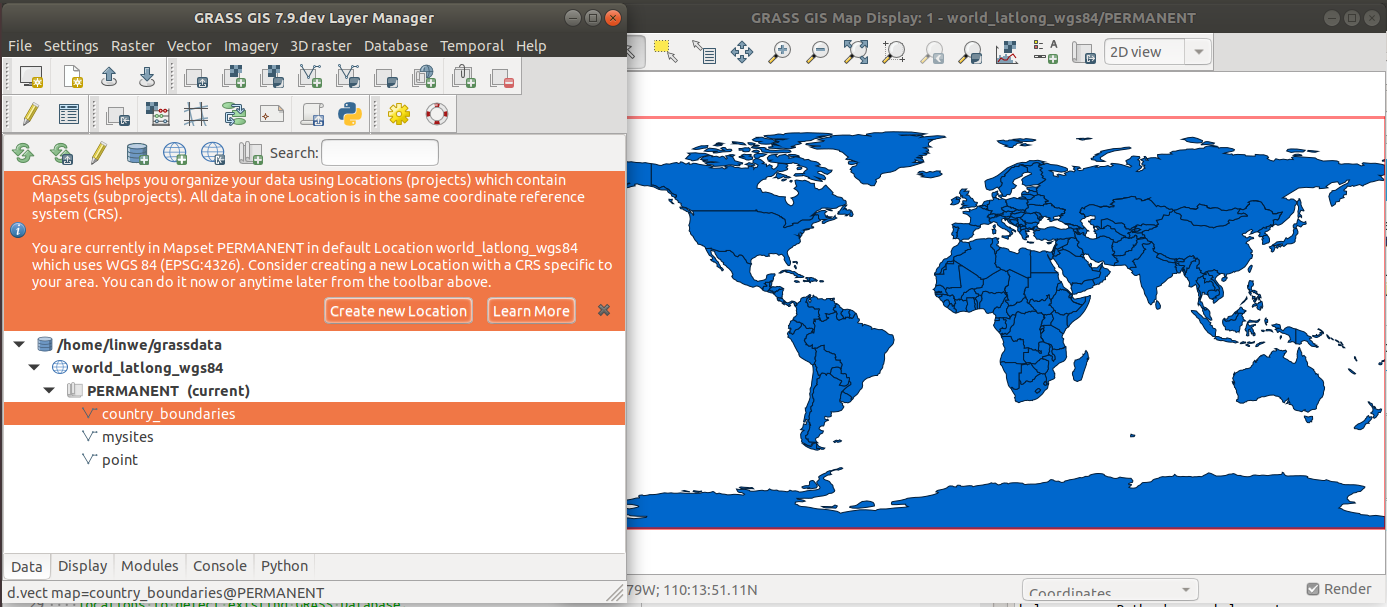
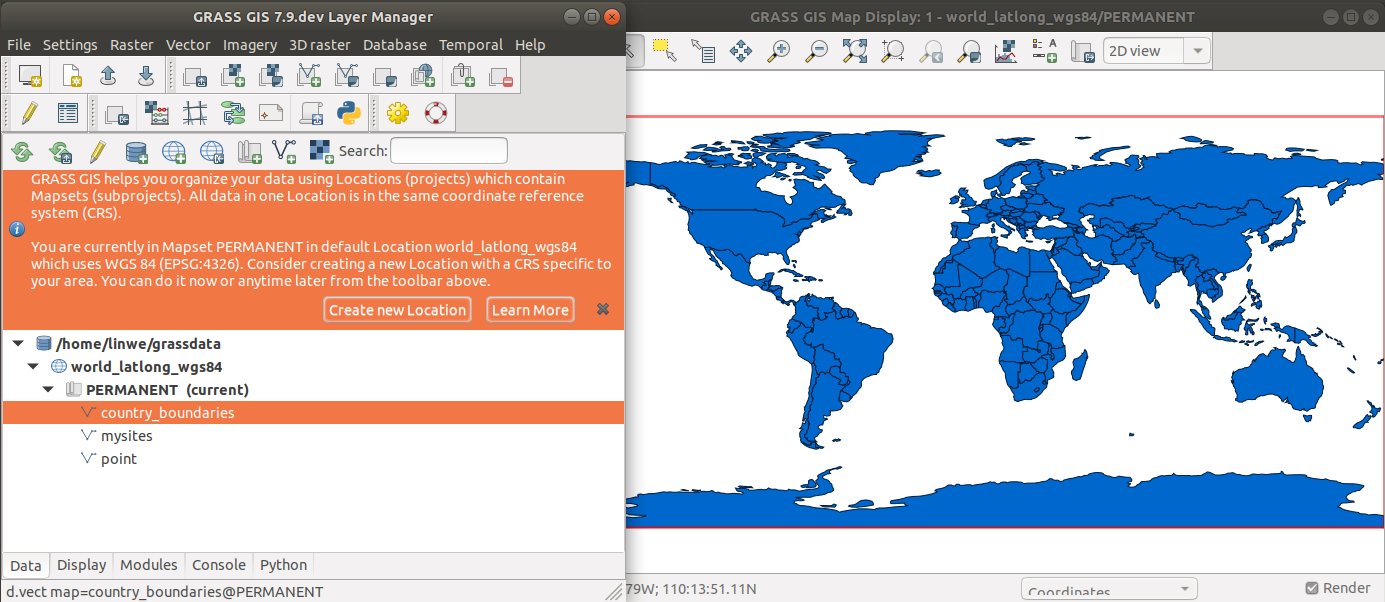
Implementation and Results

diff --git a/text/linda-kladivova-dp-2021.tex b/text/linda-kladivova-dp-2021.tex
@@ -2226,7 +2226,6 @@ should no longer be included, but it should be well-referred to.
 \vspace*{-1cm}
 \fancyhead[RE, RO]{\fancyplain{}{\small \sl{GRASS GIS Development Proposals}}}
 \section{GRASS GIS Development Proposals}
-\label{sec:proposal}
 
 \noindent As described in the subchapter \ref{sec:objectives}, this
 work consists of 2 seemingly independent parts. The first part (the
@@ -2436,54 +2435,11 @@ be informative, but questional.
 \section{Analysis of the results of the second survey}
 \label{sec:qstat2}
 
-\noindent The second questionnaire called \textbf{Help improve the
-  special mode for first-time users} was released on November 26 and
-stopped on November 30, 2020. It introduces a new Info Bar solution to
-new and existing users and tests its success. At the same time, it
-addresses users to share their ideas on how to modify and adapt the
-solution so that the resulting solution that emerges from this work,
-largely based on this survey, enriches the first-time user experience
-with GRASS as much as possible.
+\noindent The second questionnaire called \textbf{Help improve the special mode for first-time users} was released on November 26 and stopped on November 30, 2020. It introduces a new Info Bar solution to new and existing users and tests its success. At the same time, it addresses users to share their ideas on how to modify and adapt the solution so that the resulting solution that emerges from this work, largely based on this survey, enriches the first-time user experience with GRASS as much as possible.
 
-The questionnaire is based on a simple task. A user has vector data of
-rivers in the Czech Republic in the shapefile format in the coordinate
-system S-JTSK/Krovak East North (EPSG:5514) and they would like to
-import this data into GRASS and perform a simple task - extract a
-river called Otava and save it in a separate layer. Unfortunately, due
-to external epidemiological circumstances, this task could not be
-tested among GRASS beginners directly on the software. Thus, a survey
-was designed that simulates three key situations that, according to
-the diagrams in the previous chapter, a new user is likely to get into
-and which, according to the results of the second part of the first
-survey, are crucial. In these situations, the respondent is presented
-with software mockups of Info Bars which (if they are placed in the
-right place at the right time and correctly designed in terms of text)
-should lead to the right decision on how to continue in work. In the
-following text, the term \textit{default location} is preferred to the
-term \textit{demolocation}, which is more of a technical (developer)
-nature. Semantically, these concepts do not differ.
+The questionnaire is based on a simple task. A user has vector data of rivers in the Czech Republic in the shapefile format in the coordinate system S-po/Krovak East North (EPSG:5514) and they would like to import this data into GRASS and perform a simple task - extract a river called Otava and save it in a separate layer. Unfortunately, due to external epidemiological circumstances, this task could not be tested among GRASS beginners directly on the software. Thus, a survey was designed that simulates three key situations that, according to the diagrams in the previous chapter, a new user is likely to get into and which, according to the results of the second part of the first survey, are crucial. In these situations, the respondent is presented with software mockups of Info Bars which (if they are placed in the right place at the right time and correctly designed in terms of text) should lead to the right decision on how to continue in work. In the following text, the term \textit{default location} is preferred to the term \textit{demolocation}, which is more of a technical (developer) nature. Semantically, these concepts do not differ.
 
-\textbf{The first situation} shown in the mockup in Figure
-\ref{fig:grass_infobar_1} shows the GRASS GIS immediately after
-startup. At this point, a user needs to find their way around in a
-completely unknown environment as quickly as possible and import their
-data so that he can look at it and possibly perform analyzes. The
-software starts in the Data tab to the default location, which in the
-Map Display window displays the world map in the WGS 84 system
-(EPSG:4326). The task of the default location is to give the user a
-certain sense of security by showing a map and at the same time an
-example of data organization in the Data Catalog, which is now the
-center of GRASS. At the first moment, it is therefore essential for
-the user to at least passively understand the principle of the GRASS
-data hierarchy, which is well visible in the Data Catalog and is also
-briefly explained in the first Info Bar. Terms are also specified in
-the text using new planned names in parentheses. In order to properly
-figure out the first situation, a user must realize that the data he
-wants to import into the software has a different coordinate system
-(EPSG:5514) than the one defined for the default location
-(EPSG:4326). This means that if a user understands the meaning of the
-location, he will create a new location that will have the coordinate
-system of the data he wants to import.
+\textbf{The first situation} shown in the mockup in Figure \ref{fig:grass_infobar_1} shows the GRASS GIS immediately after startup. At this point, a user needs to find their way around in a completely unknown environment as quickly as possible and import their data so that he can look at it and possibly perform analyzes. The software starts in the Data tab to the default location, which in the Map Display window displays the world map in the WGS 84 system (EPSG:4326). The task of the default location is to give the user a certain sense of security by showing a map and at the same time an example of data organization in the Data Catalog, which is now the center of GRASS. At the first moment, it is therefore essential for the user to at least passively understand the principle of the GRASS data hierarchy, which is well visible in the Data Catalog and is also briefly explained in the first Info Bar. Terms are also specified in the text using new planned names in parentheses. In order to properly figure out the first situation, a user must realize that the data he wants to import into the software has a different coordinate system (EPSG:5514) than the one defined for the default location (EPSG:4326). This means that if a user understands the meaning of the location, he will create a new location that will have the coordinate system of the data he wants to import. The user can also click on a button ``Learn More'' linking the website \cite{hierarchy} which contains a detailed explanation of the data hierarchy.
 
 \vspace{0.3cm}
 \begin{figure}[hbt!] 
@@ -2494,16 +2450,7 @@ system of the data he wants to import.
 \end{center}
 \end{figure}
 
-\newpage
-\noindent Once a user creates a new location, he finds themselves in
-\textbf{the second situation} captured in Figure
-\ref{fig:grass_infobar_2} which displays the second Info Bar leading
-to data import. This Info Bar also explains the concept of PERMANENT
-mapset and shows a variant of creating own mapset, which is not
-necessary but useful. It means that we are still partially dealing
-with the topic of data hierarchy in GRASS, but at the same time, we
-advise the user on how to import their data. After successful import,
-a map is displayed automatically in the Map Display.
+\noindent Once a user creates a new location, he finds themselves in \textbf{the second situation} captured in Figure \ref{fig:grass_infobar_2} which displays the second Info Bar leading to data import. This Info Bar also explains the concept of PERMANENT mapset and shows a variant of creating own mapset, which is not necessary but useful. It means that we are still partially dealing with the topic of data hierarchy in GRASS, but at the same time, we advise the user on how to import their data. After successful import, a map is displayed automatically in the Map Display.
 
 \vspace{0.3cm}
 \begin{figure}[hbt!] 
@@ -2942,7 +2889,6 @@ resulted in several changes:
 \end{center}
 \end{figure}
 
-
 %% -------<<< Chapter 8: Implementation>>>-------\\%%%%%%%%%%%%%%%%%%%%%%%%%%%%%%%%%%%%
 \newpage
 \vspace*{-1cm}
@@ -2951,54 +2897,15 @@ resulted in several changes:
 \noindent
 \large
 
-\noindent This chapter presents the implementation of first-time mode
-from the technical point of view. As mentioned in subsection
-\ref{subsection:grassgis} the most changes in GRASS GIS takes place in
-Python which also applies to GUI which uses the wxPython
-extension. wxPython is a cross-platform toolkit which means that the
-same program can be run on multiple platforms without
-modification. Currently, supported platforms are Windows, macOS,
-Linux, or other Unix-like systems. The resulting design on each
-platform can be a bit different as we can also notice when using GRASS
-GIS on different systems. We can import wx to a script file as a
-package that wraps the GUI components of the popular wxWidgets
-cross-platform C++ library established in 1992 at the Artificial
-Intelligence Applications Institute at the University of
-Edinburgh. There are several other GUI packages for Python, for
-example, the Tkinter package is also very popular.
+\noindent This chapter presents the implementation of first-time mode from the technical point of view. As mentioned in subsection \ref{subsection:grassgis} the most changes in GRASS GIS takes place in Python which also applies to GUI which uses the wxPython extension. wxPython is a cross-platform toolkit which means that the same program can be run on multiple platforms without modification. Currently, supported platforms are Windows, macOS, Linux, or other Unix-like systems. The resulting design on each platform can be a bit different as we can also notice when using GRASS GIS on different systems. We can import wx to a script file as a package that wraps the GUI components of the popular wxWidgets cross-platform C++ library. There are several other GUI packages for Python, for example, the Tkinter package is also very popular.
 
-GRASS GIS has been developing since January 2020 on GitHub, a web
-service that supports development using the Git versioning tool. This
-principle makes working on code much clearer. It stores the history of
-work, ensures stylistic consistency using the flake8 command-line
-utility, and also allows the creation of Issues, which can have the
-character of errors and various improvements. Then these issues are
-usually proposed for changes (so-called Pull Requests), which users
-discuss. We can say that GitHub partly works as a social network,
-which can support the creativity and enthusiasm of developers. In the
-following text presenting the changes that have taken place in terms
-of the developer's point of view, the term \textit{demolocation} is
-preferred to the term \textit{default location}.
+GRASS GIS has been developing since January 2020 on GitHub, a web service that supports development using the Git versioning tool. This principle makes working on code much clearer. It stores the history of work, ensures stylistic consistency using the flake8 command-line utility, and also allows the creation of Issues, which can have the character of errors and various improvements. Then these issues are usually proposed for changes (so-called Pull Requests), which users discuss. Therefore, GitHub partly works as a social network, which can support the creativity and enthusiasm of developers. In the following text presenting the changes from the developer's point of view, the term \textit{demolocation} is preferred to the term \textit{default location}.
 
-\bigskip
-\noindent \Large \textbf{Displaying a world map and deleting a user mapset}
+\subsection{Displaying a world map and deleting a user mapset}
 
-\noindent \large Displaying a world map as a part of the default
-location is solved in the script \textit{gui/wxpython/lmgr/frame.py}
-directly in the constructor of the GMFrame class, which represents the
-Layer Manager (see chapter \ref{sec:beforeGSoC}). The map is displayed
-whenever the user is in the default location, this is checked via the
-location name \textit{world\_latlong\_wgs84}.
+\noindent \large Displaying a world map as a part of the default location is solved in the script \textit{gui/wxpython/lmgr/frame.py} directly in the constructor of the GMFrame class, which represents the Layer Manager (see chapter \ref{sec:beforeGSoC}). The map is displayed whenever the user is in the default location, this is checked via the location name \textit{world\_latlong\_wgs84}.
 
-The default location (demolocation) is automatically part of the GRASS
-GIS distribution. After the first run, this location is copied
-on-the-fly to an automatically created database called
-``grassdata'. In this demolocation, a mapset named after the user is
-created. This described solution was implemented within GSoC. However,
-based on Survey 2, it was decided that the user mapset is
-confusing. Therefore, the demolocation now starts in the PERMANENT
-mapset, which becomes the current mapset at startup. The change mainly
-affects the file \textit{gui/wxpython/startup/utils.py}.
+The demolocation is automatically part of the GRASS GIS distribution. After the first run, it was copied on-the-fly to an automatically created database called ``grassdata'' and a mapset named after the user was created. However, based on Survey 2, the author found out that the user mapset is confusing. Therefore, the demolocation now starts in the PERMANENT mapset, which becomes the current mapset at startup. The change mainly affects the file \textit{gui/wxpython/startup/utils.py}.
 
 \par\noindent\rule{\textwidth}{0.4pt}
 \textbf{Pull Requests:}
@@ -3006,54 +2913,22 @@ affects the file \textit{gui/wxpython/startup/utils.py}.
 Displaying a world map: \url{https://github.com/OSGeo/grass/pull/1070}
 
 Deleting a user mapset: \url{https://github.com/OSGeo/grass/pull/1173}
+
 \par\noindent\rule{\textwidth}{0.4pt}
 
-\bigskip
-\noindent \Large \textbf{Special mode for first-time users}
+\subsection{Special mode for first-time users}
 
-\noindent \large The basis of the new special mode for first-time
-users is the \texttt{InfoBar} class for which a new file in the path
-\textit{gui/wxpython/gui\_core/infobar.py} has been created. The file
-was intentionally created in the \textit{gui\_core} directory, as the
-\texttt{InfoBar} class is a general template and is therefore usable
-for other future InfoBar instances located elsewhere than in the Data
-Catalog. This class inherits from the implementation in the Advanced
-Generic Widgets (AGW). This package provides many custom wxPython
-controls that are simply an addition to the wxPython widgets set. In
-terms of Layout and displaying and hiding messages (and buttons), the
-Info Bar has been significantly adapted to GRASS GIS.
+\noindent \large The basis of the new special mode for first-time users is the \texttt{InfoBar} class for which a new file in the path \textit{gui/wxpython/gui\_core/infobar.py} has been created. The file was intentionally created in the \textit{gui\_core} directory, as the \texttt{InfoBar} class is a general template and is therefore usable for other future InfoBar instances located elsewhere than in the Data Catalog. This class inherits from the implementation in the Advanced Generic Widgets (AGW). This package provides many custom wxPython controls that are simply an addition to the wxPython widgets set. In terms of Layout and displaying and hiding messages (and buttons), the Info Bar has been significantly adapted to GRASS GIS.
 
-Next, the \texttt{DataCatalogInfoManager} class was created in the new
-script in the path
-\textit{gui/wxpython/datacatalog/infomanager.py}. This class contains
-methods that define the individual info messages that will be
-displayed. It takes care of both the text and the buttons as well as
-functions that are called when the buttons are pressed.
+Next, the \texttt{DataCatalogInfoManager} class was created in the new script in the path \textit{gui/wxpython/datacatalog/infomanager.py}. This class contains methods that define the individual info messages that will be displayed. It takes care of both the text and the buttons as well as functions that are called when the buttons are pressed.
 
-Both \texttt{InfoBar} and \texttt{DataCatalogInfoManager} instances
-are created in the \texttt{DataCatalog} class in the
-\textit{gui/wxpython/datacatalog/catalog.py} file. This class is a
-template for an object that is the content of the Data tab. The
-\texttt{DataCatalog} class contains first the \texttt{DataCatalogTree}
-object, which is often inaccurately called the Data Catalog, secondly
-the toolbar object \texttt{DataCatalogToolbar} in which the Management
-icons are located, and thirdly the newly implemented \texttt{InfoBar}
-object. In Figure \ref{fig:uml_chart} we can see a UML diagram that
-shows the classes described above and the relationships between them.
+Both \texttt{InfoBar} and \texttt{DataCatalogInfoManager} instances are created in the \texttt{DataCatalog} class in the \textit{gui/wxpython/datacatalog/catalog.py} file. This class is a template for an object that is the content of the Data tab. The \texttt{DataCatalog} class contains first the \texttt{DataCatalogTree} object, which is often inaccurately called the Data Catalog, secondly the toolbar object \texttt{DataCatalogToolbar} in which the Management icons are located, and thirdly the newly implemented \texttt{InfoBar} object. In Figure \ref{fig:uml_chart} we can see a UML diagram that shows the classes described above and the relationships between them.
 
-If the user is in the demolocation after startup, the world map is
-displayed and at the same time the Info Bar is visible, which displays
-advice and buttons for the first situation. The setting of the Info
-Bar for the second and third situation is no longer so
-straightforward. It is necessary to use Signals from the pydispatch
-library.
+If the user is in the demolocation after startup, the world map is displayed and at the same time the Info Bar is visible, which displays advice and buttons for the first situation. The setting of the Info Bar for the second and third situation is no longer so straightforward. It is necessary to use Signals from the pydispatch library.
 
-In the second situation, a Signal is created in the
-\texttt{DataCatalogTree} class and emitted if the user is in a
-demolocation and a new location is successfully created. At the same
-time, when generally creating a new location, there is always a switch
-to the PERMANENT mapset of the newly created location, which thus
-becomes the current mapset.
+In the second situation, a Signal is created in the \texttt{DataCatalogTree} class and emitted if the user is in a demolocation and a new location is successfully created. At the same time, when generally creating a new location, there is always a switch to the PERMANENT mapset of the newly created location, which thus becomes the current mapset. The \texttt{showImportDataInfo} method is connected to the signal in the parent \texttt{DataCatalog} object, which calls \texttt{InfoManager} with the settings which is set in case of successful creation of a new location. The Info Bar is displayed in the second situation after creating a new location using the Management icon as well as after creating a location using the button in the Info Bar set for the first situation.
+
+Showing the Info Bar in the third situation is also handled via Signal from the pydispatch library. Signal is created in the \texttt{ImportDialog} class in the \textit{gui/wxpython/modules/import\_export} file, which is the parrent for both the \texttt{GdalImportDialog} class for importing raster data as well as the \texttt{OgrImportDialog} class for importing vector data. 
 
 \vspace{0.3cm}
 \begin{figure}[hbt!] 
@@ -3064,39 +2939,12 @@ becomes the current mapset.
 \end{center}
 \end{figure}
 
+\noindent If the import is successful, this Signal is emited. In the \texttt{DataCatalog} class, the \texttt{showImportSuccessfulInfo} method calling the \texttt{InfoManager} with the particular settings, is connected to this Signal. The Info Bar is displayed in the third situation after data import using the appropriate Management icons as well as after data import using the buttons in the Info Bar set for the second situation.
+
+The Info Bar does not appear if the user creates a location or imports data from the File tab. In this case, it is assumed that it is not a first-time user. The Info Bar is therefore only a part of the Data Catalog, its functionality is not connected with the \texttt{GMFrame} class, which represents the Layer Manager.
+
 \newpage
-
-\noindent The \texttt{showImportDataInfo} method is connected to the
-signal in the parent \texttt{DataCatalog} object, which calls
-\texttt{InfoManager} with the settings which is set in case of
-successful creation of a new location. The Info Bar is displayed in
-the second situation after creating a new location using the
-appropriate Management icon as well as after creating a location using
-the button in the Info Bar set for the first situation.
-
-Showing the Info Bar in the third situation is also handled via Signal
-from the pydispatch library. Signal is created in the
-\texttt{ImportDialog} class in the
-\textit{gui/wxpython/modules/import\_export} file, which is the
-parrent for both the \texttt{GdalImportDialog} class for importing
-raster data as well as the \texttt{OgrImportDialog} class for
-importing vector data. If the import is successful, this Signal is
-emited. In the \texttt{DataCatalog} class, the
-\texttt{showImportSuccessfulInfo} method calling the
-\texttt{InfoManager} with the particular settings, is connected to
-this Signal. The Info Bar is displayed in the third situation after
-data import using the appropriate Management icons as well as after
-data import using the buttons in the Info Bar set for the second
-situation.
-
-The Info Bar does not appear if the user creates a location or imports
-data from the File tab. In this case, it is assumed that it is not a
-first-time user. The Info Bar is therefore only a part of the Data
-Catalog, its functionality is not connected with the \texttt{GMFrame}
-class, which represents the Layer Manager.
-
-\par\noindent\rule{\textwidth}{0.4pt}
-\textbf{Pull Requests:}
+\noindent \textbf{Pull Requests:}
 
 Info Bar in first situation: \url{https://github.com/OSGeo/grass/pull/1078}
 
@@ -3105,25 +2953,24 @@ Info Bar in second situation: \url{https://github.com/OSGeo/grass/pull/1183}
 Info Bar in third situation: \url{https://github.com/OSGeo/grass/pull/1204}
 \par\noindent\rule{\textwidth}{0.4pt}
 
-\bigskip
-\noindent \Large\textbf{Managament icons for vector and raster data import}
+\subsection{Managament icons for vector and raster data import}
 
-\noindent \large Due to the Info Bar in the second situation, two
-Management icons for data import are added. They are implemented in
-the file \textit{gui/wxpython/datacatalog/toolbar.py} in the
-\texttt{DataCatalogToolbar} class and use images used for the same
-purpose in QGIS. Depending on the type of import (vector/ raster), the
-function called \textit{Simplified vector import with reprojection
-  (v.import)} or \textit{Simplified raster import with reprojection
-  (v.raster)} is called. These are the same functions that are linked
-to the buttons `` Import vector data '' and `` Import raster data ''
-in the Info Bar set for the second situation.
+\noindent \large Due to the Info Bar in the second situation, two Management icons for data import are added. They are implemented in the file \textit{gui/wxpython/datacatalog/toolbar.py} in the \texttt{DataCatalogToolbar} class and use images used for the same purpose in QGIS. Depending on the type of import (vector/ raster), the function called \textit{Simplified vector import with reprojection (v.import)} or \textit{Simplified raster import with reprojection (v.raster)} is called. These are the same functions that are linked to the buttons ``Import vector data'' and ``Import raster data'' in the Info Bar set for the second situation.
 
 \par\noindent\rule{\textwidth}{0.4pt}
 \textbf{Pull Request:}
 
 \url{https://github.com/OSGeo/grass/pull/1205}
 \par\noindent\rule{\textwidth}{0.4pt}
+
+\vspace{0.3cm}
+\begin{figure}[hbt!] 
+\begin{center}
+\includegraphics[width=15cm]{../pictures/icons.png} 
+\caption[Management icons for vector and raster data import]{Management icons for vector and raster data import (Source: Personal collection)}
+\label{fig:icons}
+\end{center}
+\end{figure}
 
 %% -------<<< Chapter 9: Results >>>-------\\%%%%%%%%%%%%%%%%%%%%%%%%%%%%%%%%%%%%
 \newpage
@@ -3133,41 +2980,58 @@ in the Info Bar set for the second situation.
 \noindent
 \large
 
-The Info Bar is created in Data Catalog each time the user starts
-GRASS GIS and it is only up to the situation what message is
-displayed. During the work, the user can then close the Info Bar but
-in reality it is only hidden and in another defined situation it may
-get visible again.  Displaying the world map as part of the
-demolocation immediately after GRASS GIS first startup is a
-functionality mentioned in responses in Survey 1 Part 2 Question 3,
-and developers have long considered this concept.
+\noindent In addition to the created proposal on how to improve the current GRASS GIS startup mechanism (see subsection \ref{sec:proposal2}), the goal of this work is to propose and implement a special mode for first-time users. Based on the second part of the first survey and the section \ref{sec:usability_testing}, this mode was compiled. It consists of Info Bar which is created in Data Catalog each time the user starts GRASS GIS and it is only up to the situation what message is displayed. During the work, the user can then close the Info Bar but in reality it is only hidden and in another defined situation it may get visible again. The Info Bar is finally displayed in three defined situations, which were already proposed in Survey 2 - for the first time after the first GRASS GIS startup, the second time when the first-time user creates a new location successfully, and the third time when the first-time user imports data successfully. The situation in which every GRASS user finds themselves when start GRASS GIS after the installation can be seen in Figures \ref{fig:lmgr1}, \ref{fig:mapdisplay1}.
 
 \vspace{0.3cm}
 \begin{figure}[hbt!] 
 \begin{center}
-\includegraphics[width=17cm]{../pictures/po_prvnich_trech_PRs.png} 
-\caption[UML diagram of InfoBar implementation]{UML diagram of InfoBar implementation (Source: Personal collection)}
-\label{fig:po_prvnich_trech_PRs}
+\includegraphics[width=13cm]{../pictures/lmgr1.png} 
+\caption[Layer Manager in Situation 1 (immediatelly after first startup)]{Layer Manager in Situation 1 (immediatelly after first startup) (Source: Personal collection)}
+\label{fig:lmgr1}
 \end{center}
 \end{figure}
 
 \vspace{0.3cm}
 \begin{figure}[hbt!] 
 \begin{center}
-\includegraphics[width=17cm]{../pictures/druha_infobar_a_nove_management_ikonky.png} 
-\caption[UML diagram of InfoBar implementation]{UML diagram of InfoBar implementation (Source: Personal collection)}
-\label{fig:druha_infobar_a_nove_management_ikonky}
+\includegraphics[width=15cm]{../pictures/mapdisplay1.png} 
+\caption[Map Display in Situation 1 (immediatelly after first startup)]{Map Display in Situation 1 (immediatelly after first startup) (Source: Personal collection)}
+\label{fig:mapdisplay1}
 \end{center}
 \end{figure}
+
+\noindent There are several important changes compared to the proposal in Survey 2. Firstly, the Info Bar is newly placed above the Data Catalog, which will help it not to be ignored. Secondly, the appearance of the Info Bar was slightly modified, which we can notice on the buttons that have different design. Thirdly, the color of the world map, which is displayed automatically as part of the demolocation, was changed to dark blue from the original gray. Lastly, the Info Bar text set for the first situation was slightly specified - the word `` default '' was added before the location name, as in Survey 2, there are responses indicating that users do not undestand where they are located. 
+
+The text in the Info Bar set for the second situation (see Figure \ref{fig:lmgr2}) was also slightly changed. In order to further improve the Info Bar function, but also the Data tab in general, two Management icons were created for the import of raster and vector data. We can see them in Figure \ref{fig:icons} highlighted in red. The main reason is that Management icons were very successful in Survey 1 Part 1 Question 3 and at the same time, the advice in the proposal in Survey 2 regarging File Manager is confusing. There are several functions for data import in File Manager. It makes much more sense to continue with the same concept that was introduced at the content of the Info Bar in the first situation, when the creation of a new location is also possible via the Management icon in addition to the button in the Info Bar.
+
+\begin{figure}[hbt!] 
+\begin{center}
+\includegraphics[width=13cm]{../pictures/lmgr2.png} 
+\caption[Layer Manager in Situation 2  (after successfully created location)]{Layer Manager in Situation 2 (after successfully created location) (Source: Personal collection)}
+\label{fig:lmgr2}
+\end{center}
+\end{figure}
+
+\noindent The text in the Info Bar in the third situation was changed according to the proposal of the respondent \#21 in Survey 2 Question 6. The situation in the Data tab after successful data import can be seen in Figures \ref{fig:lmgr3}, \ref{fig:mapdisplay3}.
 
 \vspace{0.3cm}
 \begin{figure}[hbt!] 
 \begin{center}
-\includegraphics[width=17cm]{../pictures/third_infobar.png} 
-\caption[UML diagram of InfoBar implementation]{UML diagram of InfoBar implementation (Source: Personal collection)}
-\label{fig:third_infobar}
+\includegraphics[width=13cm]{../pictures/lmgr3.png} 
+\caption[Layer Manager in Situation 3 (after successful import)]{Layer Manager in Situation 3 (after successful import) (Source: Personal collection)}
+\label{fig:lmgr3}
 \end{center}
 \end{figure}
+
+\newpage
+\begin{figure}[hbt!] 
+\begin{center}
+\includegraphics[width=15cm]{../pictures/mapdisplay3.png} 
+\caption[Map Display in Situation 3 (after successful import)]{Map Display in Situation 3 (after successful import) (Source: Personal collection)}
+\label{fig:mapdisplay3}
+\end{center}
+\end{figure}
+
 
 
 
